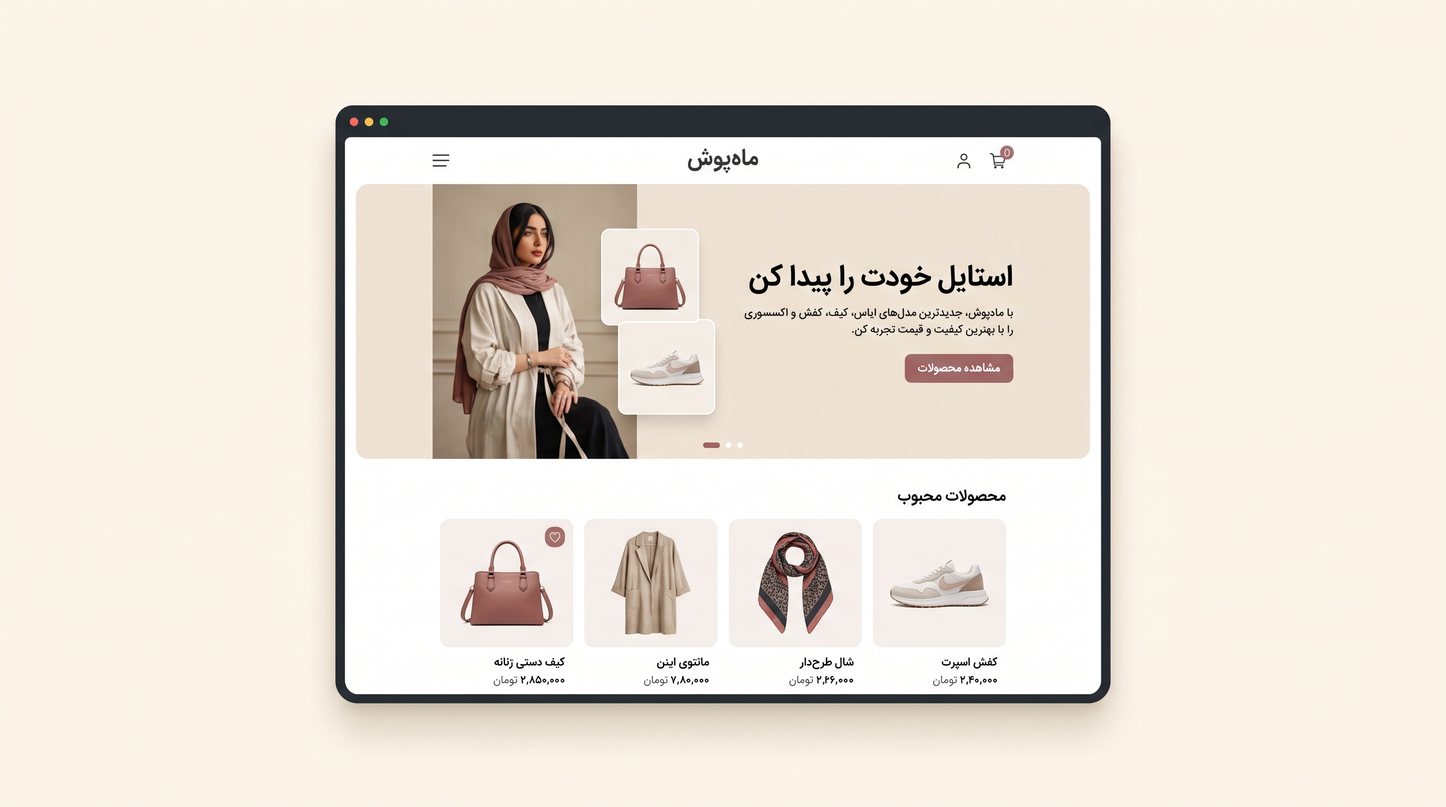
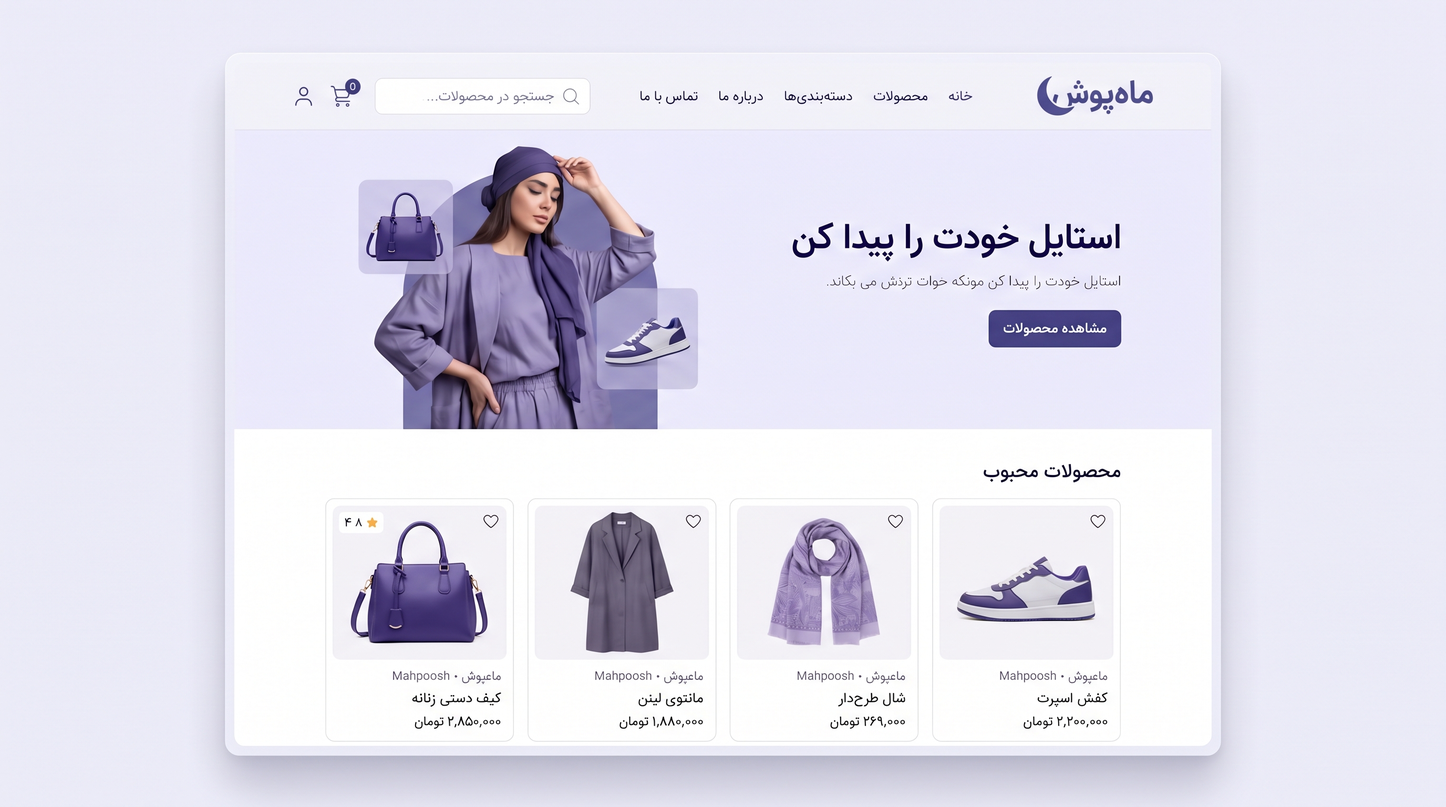
Improve Hero section design

diff --git a/src/components/hero/StoreMockup.tsx b/src/components/hero/StoreMockup.tsx
@@ -1,35 +1,138 @@
+import React from "react";
+import { ShoppingBag as IconShoppingBag } from "lucide-react";
 import mahpooshStore from "../../assets/mahpoosh-store.png";
 
-const StoreMockup = () => {
+export default function StoreMockup() {
   return (
-    <div className="relative w-full max-w-[900px] mx-auto">
+    // ✅ تغییر ۲: max-w از 900 به 620 — 900px باعث میشد ماکاپ از ستونش بزرگتر بشه
+    // و بههرحال کوچیک رندر بشه با کلی فضای خالی اطراف
+    <div className="relative w-full max-w-[620px] mx-auto">
 
+      {/* Main store preview */}
       <div
         className="
           relative
           overflow-hidden
           rounded-[28px]
-          shadow-xl
-          bg-[#FCF8F1]
+          bg-white
+          shadow-hero-mockup
+          border border-slate-100
           transition-transform
           duration-500
           hover:scale-[1.015]
         "
       >
-        <img
-          src={mahpooshStore}
-          alt="نمونه فروشگاه آنلاین ساخته شده با میکسین"
+        {/* Browser-like top bar */}
+        <div
           className="
-            block
-            w-full
-            h-full
-            object-cover
-            object-center
+            flex items-center
+            gap-2
+            h-10
+            px-5
+            bg-white
+            border-b border-slate-100
           "
-        />
+        >
+          <span className="w-2.5 h-2.5 rounded-full bg-[#FF6B6B]" />
+          <span className="w-2.5 h-2.5 rounded-full bg-[#F59E0B]" />
+          <span className="w-2.5 h-2.5 rounded-full bg-[#22C55E]" />
+
+          <div
+            className="
+              absolute
+              left-1/2
+              -translate-x-1/2
+              hidden sm:flex
+              items-center
+              justify-center
+              h-6
+              px-6
+              rounded-full
+              bg-slate-50
+              text-[10px]
+              text-slate-400
+              font-medium
+            "
+          >
+            mahpoosh.ir
+          </div>
+        </div>
+
+        {/* Store image */}
+        <div className="relative overflow-hidden -mt-2"> {/* نصف padding بالای تصویر رو بخور */}
+  <img
+    src={mahpooshStore}
+    alt="نمونه فروشگاه آنلاین ساخته شده با میکسین"
+    className="
+      block
+      w-full
+      h-auto
+      object-cover
+      object-center
+      scale-[1.04]   /* زوم خیلی نرم تا padding دور تصویر بره */
+    "
+  />
+
+
+          <div
+            className="
+              pointer-events-none
+              absolute inset-0
+              bg-gradient-to-t
+              from-black/[0.04]
+              via-transparent
+              to-transparent
+            "
+          />
+        </div>
       </div>
 
+      {/* New order card */}
+      <div
+        className="
+          absolute
+          top-4
+          left-4
+          sm:left-6
+          z-20
+          w-[140px]
+          sm:w-[165px]
+          rounded-2xl
+          bg-white
+          border border-slate-100
+          shadow-lg
+          shadow-primary/10
+          p-3.5
+          animate-float-slow
+          [animation-delay:1.5s]
+        "
+      >
+        <div className="flex items-center gap-2 mb-1.5">
+          <span
+            className="
+              flex items-center justify-center
+              w-7 h-7
+              rounded-lg
+              bg-secondary/10
+              text-secondary
+            "
+          >
+            <IconShoppingBag className="w-4 h-4" />
+          </span>
+
+          <span className="text-[11px] font-bold text-ink-muted">
+            سفارش جدید
+          </span>
+        </div>
+
+        <div className="text-[12px] text-ink">
+          تیشرت مخمل مشکی
+        </div>
+
+        <div className="mt-0.5 text-[10px] text-ink-muted/70">
+          ۲ دقیقه پیش · ۴۹۰٬۰۰۰ تومان
+        </div>
+      </div>
     </div>
   );
 }
-export default StoreMockup;

diff --git a/src/components/Hero.tsx b/src/components/Hero.tsx
@@ -178,7 +178,7 @@ const Hero = () => {
               <br />
 
               <span className="text-gradient">
-                فروشت را چند برابر کن
+                فروش خود را چند برابر کن
               </span>
             </h1>
 
@@ -335,66 +335,6 @@ const Hero = () => {
           ">
 
             <StoreMockup />
-
-            {/* Floating notification */}
-            <div className="
-              absolute
-              -top-6
-              -left-2
-              sm:-top-10
-              sm:-left-12
-              bg-white
-              rounded-[2rem]
-              pl-7
-              pr-3.5
-              py-3.5
-              shadow-[0_24px_48px_-12px_rgba(0,0,0,0.12)]
-              border
-              border-slate-100
-              animate-float
-              animate-in
-              delay-3
-              z-20
-            ">
-              <div className="
-                flex
-                items-center
-                gap-4
-              ">
-                {/* Icon Container (Right side in RTL) */}
-                <div className="
-                  w-14
-                  h-14
-                  rounded-full
-                  bg-[#F0F4F8]
-                  flex
-                  items-center
-                  justify-center
-                ">
-                  <span className="text-2xl drop-shadow-sm">🎉</span>
-                </div>
-
-                {/* Text Details (Left side in RTL) */}
-                <div className="flex flex-col">
-                  <div className="
-                    text-[16px]
-                    font-black
-                    text-slate-800
-                  ">
-                    سفارش جدید!
-                  </div>
-                  <div className="
-                    text-[13px]
-                    font-bold
-                    text-slate-400
-                    mt-0.5
-                  ">
-                    ۸۹۰,۰۰۰ تومان
-                  </div>
-                </div>
-              </div>
-            </div>
-
           </div>
 
         </div>

diff --git a/src/index.css b/src/index.css
@@ -108,6 +108,10 @@
     background: var(--color-primary);
     color: white;
   }
+    h1, h2, h3 {
+    font-feature-settings: "kern" 1, "liga" 1, "calt" 1;
+    text-rendering: optimizeLegibility;
+  }
 }
 
 
